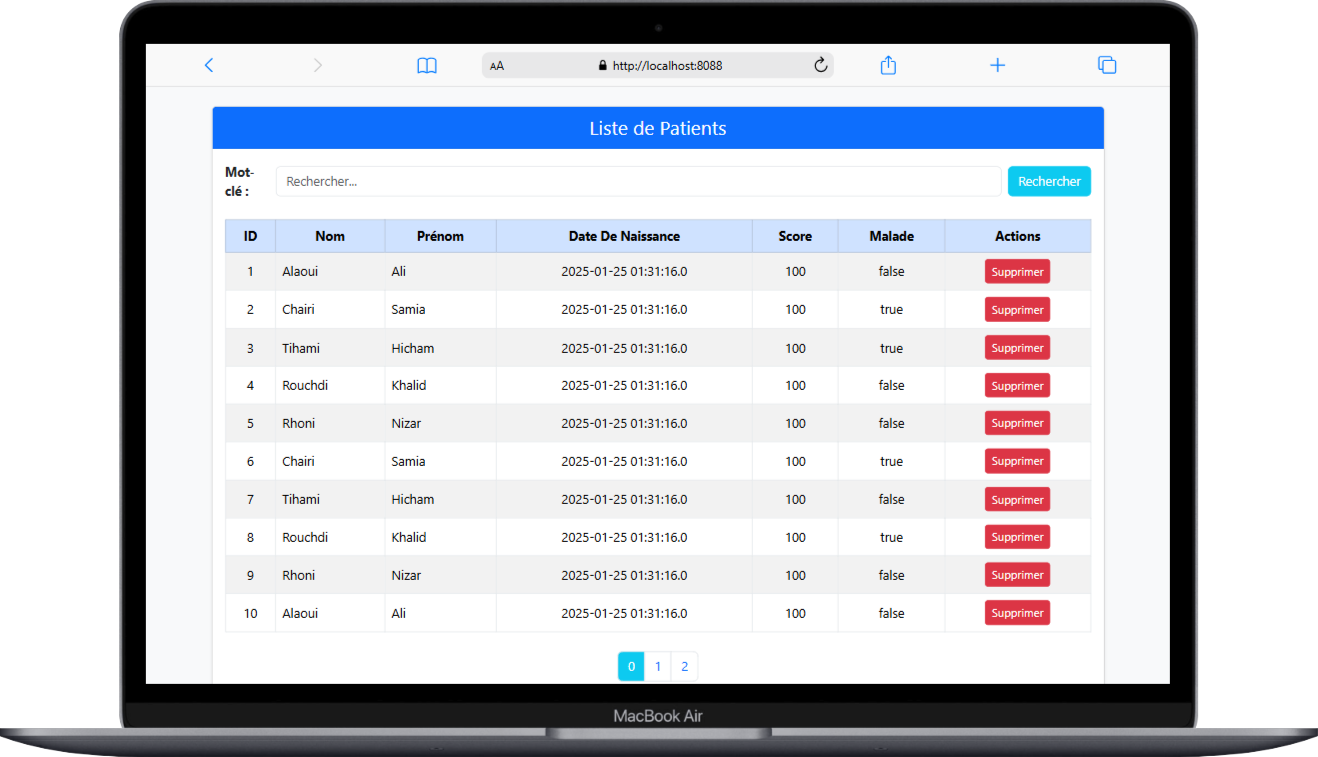
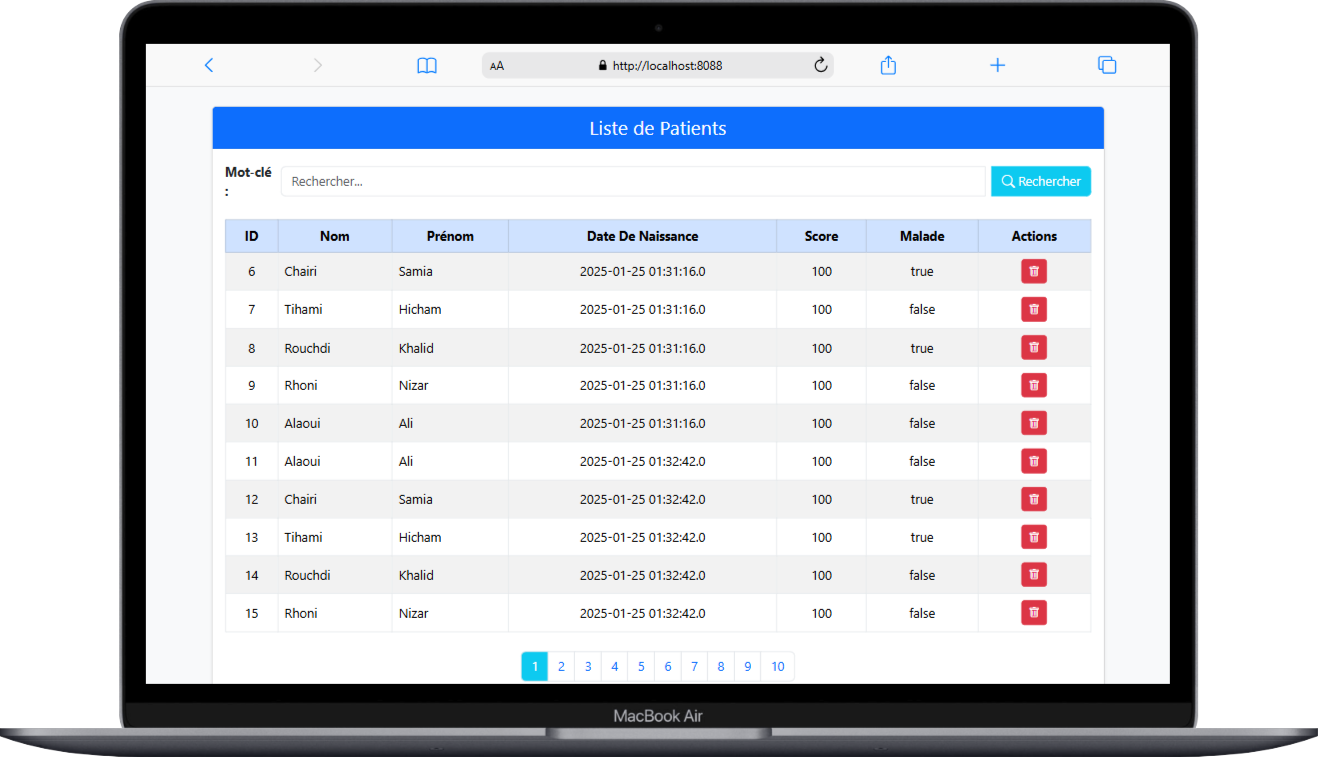
Amélioration du style avec l'ajout des icônes et adaptation de la pagination

diff --git a/src/main/resources/templates/patients.html b/src/main/resources/templates/patients.html
@@ -4,6 +4,8 @@
     <meta charset="UTF-8">
     <title>Patients</title>
     <link rel="stylesheet" type="text/css" href="/webjars/bootstrap/5.3.3/css/bootstrap.min.css">
+    <link rel="stylesheet" href="/webjars/bootstrap-icons/1.11.3/font/bootstrap-icons.css">
+
 </head>
 <body class="bg-light">
 
@@ -14,8 +16,12 @@
 
             <form method="get" th:action="@{/index}" class="d-flex align-items-center mb-4">
                 <label class="me-2 fw-bold">Mot-clé :</label>
-                <input type="text" name="keyword" th:value="${keyword}" class="form-control me-2" placeholder="Rechercher...">
-                <button class="btn btn-info text-white">Rechercher</button>
+                <div class="input-group">
+                    <input type="text" name="keyword" th:value="${keyword}" class="form-control me-2" placeholder="Rechercher...">
+                    <button class="btn btn-info text-white">
+                        <i class="bi bi-search"></i> Rechercher
+                    </button>
+                </div>
             </form>
 
             <table class="table table-striped table-bordered align-middle">
@@ -40,7 +46,9 @@
                     <td th:text="${p.malade}" class="text-center"></td>
                     <td class="text-center">
                         <a onclick="return confirm('Êtes-vous sûr ?')" class="btn btn-sm btn-danger"
-                           th:href="@{deletePatient(id=${p.id},keyword=${keyword},page=${currentPage})}">Supprimer</a>
+                           th:href="@{deletePatient(id=${p.id},keyword=${keyword},page=${currentPage})}">
+                            <i class="bi bi-trash"></i>
+                        </a>
                     </td>
                 </tr>
                 </tbody>
@@ -50,7 +58,7 @@
                 <li th:each="page,status:${pages}" class="page-item">
                     <a th:class="${status.index==currentPage ? 'page-link bg-info text-white' : 'page-link'}"
                        th:href="@{/index(page=${status.index},keyword=${keyword})}"
-                       th:text="${status.index}"></a>
+                       th:text="${1+status.index}"></a>
                 </li>
             </ul>
 
